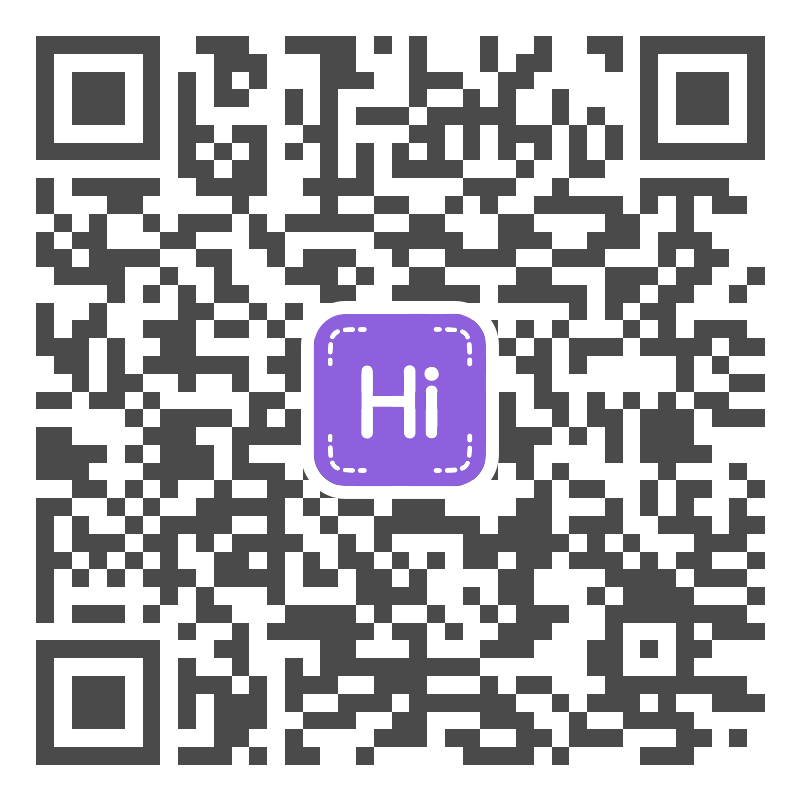
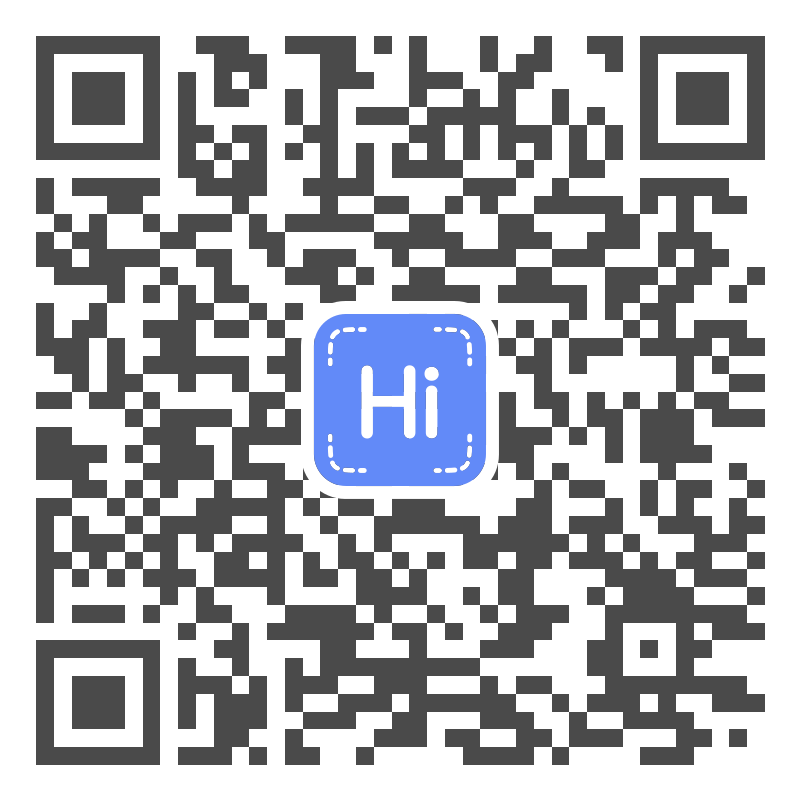
feat: update practice info to Mind Rejuvenation
- Update practice name from Choose Courage Counseling Services to Mind Rejuvenation
- Update phone number, website URL, and location (Broken Arrow → Tulsa)
- Update Google Maps embed and link URLs for new address
- Update structured data in index.html and locale strings (en/es)
- Update business card image

Changed region(s): [[0.375, 0.375, 0.625, 0.625]]

diff --git a/src/constants/index.ts b/src/constants/index.ts
@@ -17,21 +17,21 @@
 // Contact Information
 export const CONTACT = {
   phone: {
-    display: '(918) 940-7158',
-    tel: 'tel:+19189407158',
+    display: '(918) 417-2969 ',
+    tel: 'tel:+19184172969',
   },
   email: {
     address: 'mical.pacheco.pmhnp@gmail.com',
     mailto: 'mailto:mical.pacheco.pmhnp@gmail.com',
   },
   website: {
-    url: 'https://choosecouragecounseling.com',
-    display: 'choosecouragecounseling.com',
+    url: 'https://www.mindrejuvenation.net/',
+    display: 'www.mindrejuvenation.net',
   },
   practice: {
-    name: 'Choose Courage Counseling Services, PLLC',
-    location: 'Broken Arrow, Oklahoma',
-    fullAddress: 'Choose Courage Counseling Services, PLLC, Oklahoma',
+    name: 'Mind Rejuvenation',
+    location: 'Tulsa, Oklahoma',
+    fullAddress: 'Mind Rejuvenation, Oklahoma',
   },
 } as const;
 
@@ -44,8 +44,8 @@ export const SOCIAL_MEDIA = {
 
 // Maps & URLs
 export const MAPS = {
-  embedUrl: 'https://www.google.com/maps/embed?pb=!1m18!1m12!1m3!1d3227.0353155873504!2d-95.8159775!3d36.019431!2m3!1f0!2f0!3f0!3m2!1i1024!2i768!4f13.1!3m3!1m2!1s0x87b68fec138063a9%3A0xd943730f976ad4fc!2sChoose%20Courage%20Counseling%20Services%2C%20PLLC!5e0!3m2!1sen!2sus!4v1769993515324!5m2!1sen!2sus',
-  linkUrl: 'https://maps.app.goo.gl/7YCbg6GRQkDDahCXA?g_st=ic',
+  embedUrl: 'https://www.google.com/maps/embed?pb=!1m18!1m12!1m3!1d51607.65952950128!2d-95.99746227264406!3d36.057425945893876!2m3!1f0!2f0!3f0!3m2!1i1024!2i768!4f13.1!3m3!1m2!1s0x87b6924227674b4b%3A0x4dfb54d1248fb6f5!2sMind%20Rejuvenation!5e0!3m2!1sen!2sus!4v1771086885120!5m2!1sen!2sus',
+  linkUrl: 'https://maps.app.goo.gl/Uc1sSzEgmiHjx3JH8',
 } as const;
 
 // Base URL for SEO

diff --git a/index.html b/index.html
@@ -63,7 +63,7 @@
       "name": "Mical Pacheco, PMHNP-BC",
       "description": "Board-certified Psychiatric Mental Health Nurse Practitioner providing comprehensive psychiatric evaluation and medication management across the lifespan.",
       "url": "https://micalpacheco.com",
-      "telephone": "+19189407158",
+      "telephone": "+19184172969",
       "address": {
         "@type": "PostalAddress",
         "addressLocality": "Broken Arrow",
@@ -169,7 +169,7 @@
       ],
       "worksFor": {
         "@type": "Organization",
-        "name": "Choose Courage Counseling Services, PLLC"
+        "name": "Mind Rejuvenation"
       },
       "sameAs": [
         "https://www.instagram.com/ebellina555",

diff --git a/src/components/Contact.tsx b/src/components/Contact.tsx
@@ -120,8 +120,7 @@ const Contact: React.FC = () => {
         <div className="contact-map">
           <div className="contact-map-container" ref={mapContainerRef}>
             {shouldLoadMap ? (
-              <iframe
-                src={MAPS.embedUrl}
+              <iframe src={MAPS.embedUrl} 
                 width="100%"
                 height="400"
                 style={{ border: 0 }}
